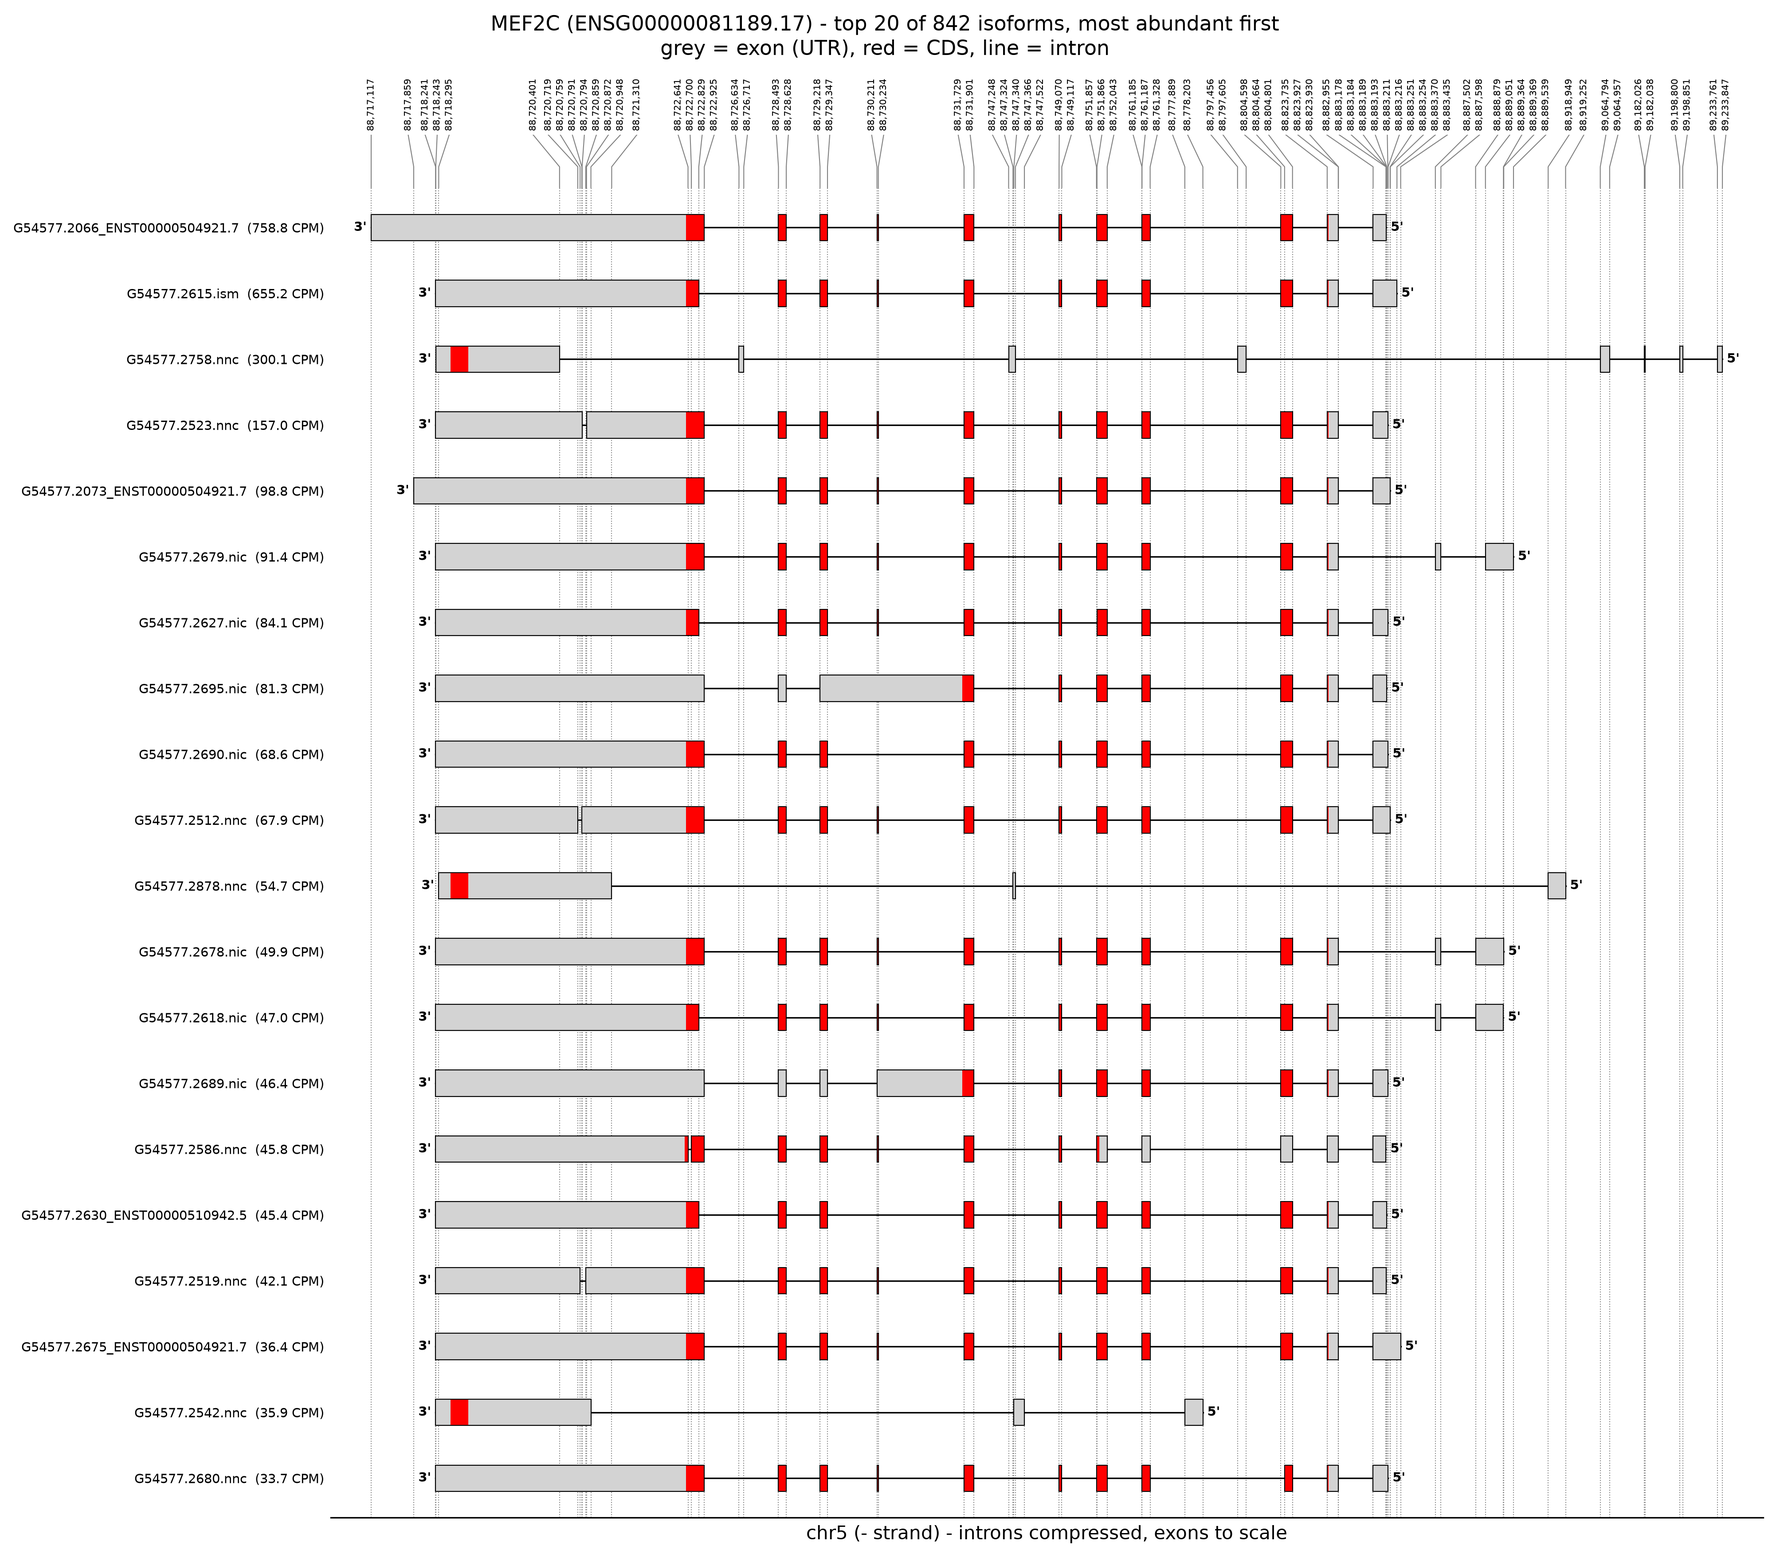
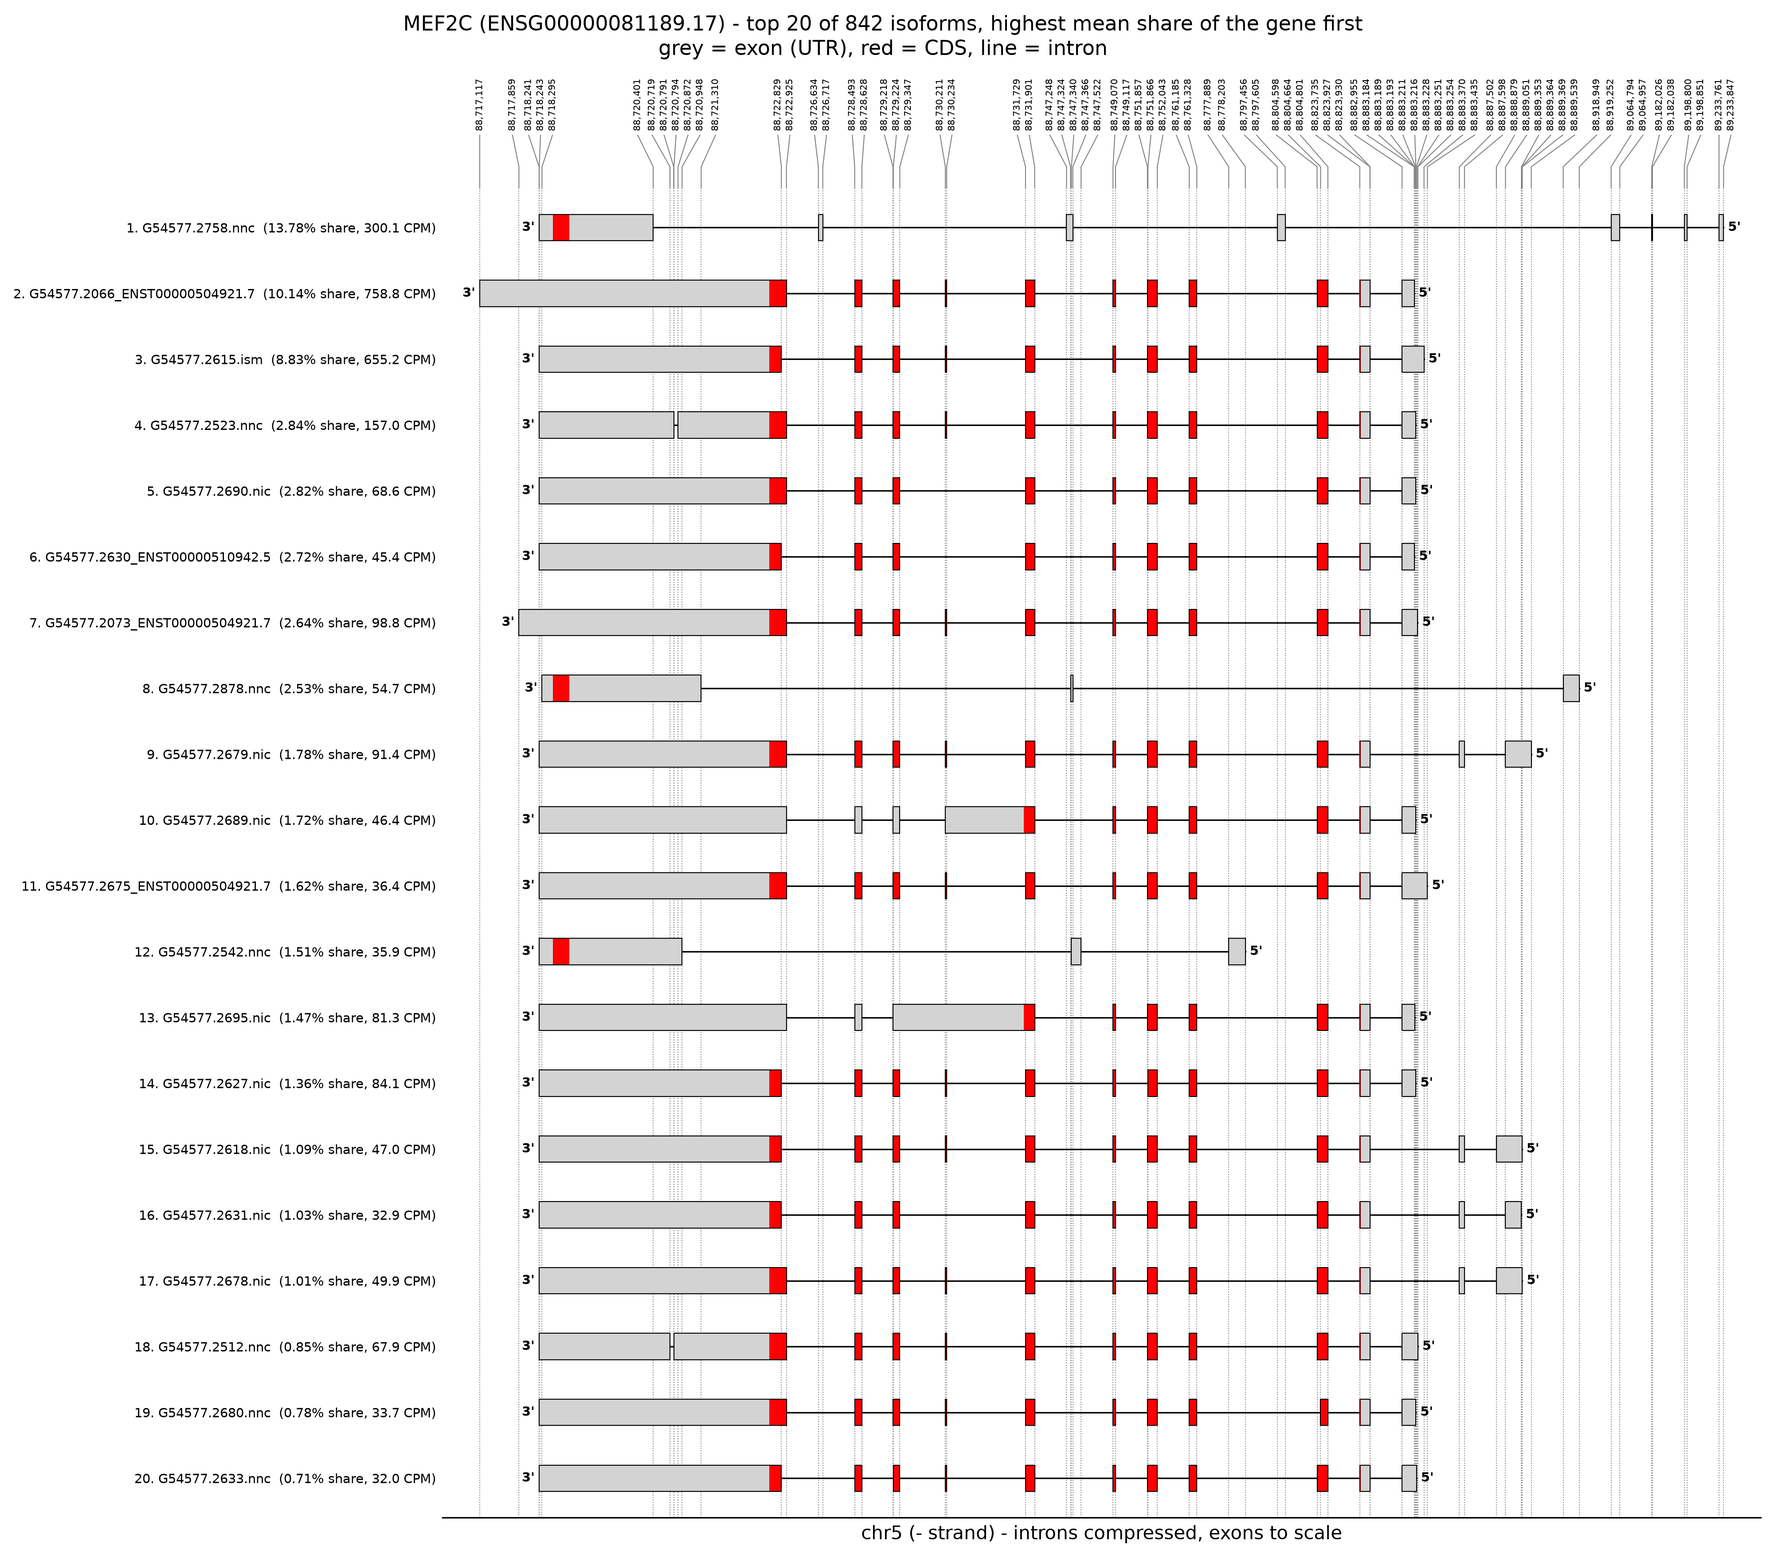
consistency in numbering isoforms

diff --git a/4_identifying_candidates/.py/checking_across_pairs.py b/4_identifying_candidates/.py/checking_across_pairs.py
@@ -1,0 +1,166 @@
+"""
+For the genes that are the asymmetric gene in several candidate pairs, how consistently is each of
+their isoforms significant across those pairs?
+
+For each of the top N_GENES asymmetric genes (most candidate pairs first, at least MIN_PAIRS pairs):
+    - take every candidate pair where it is the asymmetric gene
+    - for each of its isoforms, the percentage of those pairs where that isoform's share was
+      significant against the partner (silent) gene's total
+      (100% = significant in every pair, 0% = tested in every pair but never significant)
+
+Isoform numbers match the isoform visualisation (1_data_processing/.py/isoform_visualisation.py):
+all isoforms of the gene ranked by mean % share of the gene across the 45 adult samples (the same
+measure as the 1.5% share filter), 1 = highest share = top row of that figure. Because the ranking
+and the filter use the same measure, the tested isoforms are exactly isoforms 1 to N with no gaps.
+Blank means "not tested" (or the gene has fewer isoforms), not "never significant".
+
+Outputs (in 4_identifying_candidates/CSV):
+    isoform_consistency_<settings>.csv      - rows = asymmetric gene, columns = isoform number,
+                                              cells = % of the gene's candidate pairs significant
+    isoform_consistency_key_<settings>.csv  - one row per gene and tested isoform: its number, ID,
+                                              mean CPM, mean share and the counts behind each %
+
+Run with:
+    python 4_identifying_candidates/.py/checking_across_pairs.py
+"""
+
+from pathlib import Path
+import sys
+
+import pandas as pd
+
+ROOT_FOLDER = Path(__file__).resolve().parents[2]   # the Sapal-Speke-RP-2026 folder
+sys.path.insert(0, str(ROOT_FOLDER))                # so "from functions..." works from any folder
+
+from functions.data_loading.expression_data import (
+    load_matrix, mean_isoform_share, rank_isoforms_by_share, read_isoform_genes,
+)
+
+
+# --- Settings ---------------------------------------------------------------
+CANDIDATES_FILE = None
+# None selects the latest promising_candidate_pairs_*.csv from promising_candidates.py.
+N_GENES = 10
+# How many asymmetric genes to include, most candidate pairs first.
+MIN_PAIRS = 2
+# A gene must be the asymmetric gene in at least this many pairs to be included.
+
+MATRIX_PATH = ROOT_FOLDER / "Long_Read_Data" / "expressed_isoforms_matrix.tsv"
+GTF_PATH = ROOT_FOLDER / "Long_Read_Data" / "expressed_isoforms.gtf"
+CORRELATIONS_FOLDER = ROOT_FOLDER / "3b_isoform_gene_hypothesis_testing" / "CSV"
+CSV_FOLDER = ROOT_FOLDER / "4_identifying_candidates" / "CSV"
+
+
+def find_candidates_file():
+    """Return an explicitly configured candidates file or the latest one."""
+    if CANDIDATES_FILE is not None:
+        path = Path(CANDIDATES_FILE)
+        if not path.is_absolute():
+            path = ROOT_FOLDER / path
+        if not path.is_file():
+            raise FileNotFoundError(f"Configured candidates CSV does not exist: {path}")
+        return path
+
+    candidates = list(CSV_FOLDER.glob("promising_candidate_pairs_*.csv"))
+    if not candidates:
+        raise FileNotFoundError(
+            f"No candidate pairs found in {CSV_FOLDER}. Run promising_candidates.py first."
+        )
+    return max(candidates, key=lambda path: path.stat().st_mtime_ns)
+
+
+def isoform_numbers(genes):
+    """Isoform number for every isoform of the given genes, as in the isoform visualisation:
+    all of the gene's isoforms ranked by mean % share of the gene across the adult samples,
+    1 = highest share. Uses the same shared functions as the visualisation, so the numbers match.
+    Returns (number, mean CPM), both indexed by isoform ID."""
+    matrix = load_matrix(str(MATRIX_PATH))
+    matrix = matrix[[name for name in matrix.columns if "_Fetal_" not in name]]
+    mean_cpm = matrix.mean(axis=1)
+
+    isoform_gene = read_isoform_genes(str(GTF_PATH))   # in GTF order, like the visualisation
+    mean_share = mean_isoform_share(matrix, isoform_gene)
+    numbers = {}
+    for gene in genes:
+        isoforms = list(isoform_gene.index[isoform_gene == gene])
+        for number, isoform_id in enumerate(rank_isoforms_by_share(isoforms, mean_share), start=1):
+            numbers[isoform_id] = number
+    numbers = pd.Series(numbers, name="isoform_number")
+    return numbers, mean_cpm.reindex(numbers.index)
+
+
+def main():
+    candidates_path = find_candidates_file()
+    settings_tag = candidates_path.stem.removeprefix("promising_candidate_pairs_")
+    correlations_path = CORRELATIONS_FOLDER / f"isoform_gene_correlations_{settings_tag}.csv"
+    print(f"Reading candidates: {candidates_path}")
+    print(f"Reading isoform tests: {correlations_path}")
+    candidates = pd.read_csv(candidates_path)
+    results = pd.read_csv(correlations_path, low_memory=False)
+
+    # Top asymmetric genes by number of candidate pairs
+    pair_counts = candidates["asymmetric_gene"].value_counts()
+    pair_counts = pair_counts[pair_counts >= MIN_PAIRS]
+    pair_counts = pair_counts.sort_index().sort_values(ascending=False, kind="stable")   # ties by name
+    top_genes = pair_counts.index[:N_GENES]
+    print(f"Asymmetric genes in at least {MIN_PAIRS} pairs: {len(pair_counts):,}; using the top {len(top_genes)}")
+
+    # Every tested isoform share, from either side, as: pair, gene the isoform belongs to, isoform, significant
+    tested = results.loc[results["spearman_rho"].notna()]
+    sides = []
+    for side in ["a", "b"]:
+        rows = tested.loc[tested[f"component_{side}_type"] == "isoform_percent_share"]
+        sides.append(pd.DataFrame({
+            "pair_id": rows["pair_id"].values,
+            "gene": rows[f"gene_{side}"].values,
+            "isoform_id": rows[f"isoform_{side}_id"].astype(str).values,
+            "mean_share_pct": rows[f"mean_share_{side}_pct"].values,
+            "significant": rows["mht_significant"].astype(bool).values,
+        }))
+    isoform_tests = pd.concat(sides, ignore_index=True)
+
+    # Keep only the asymmetric side of each candidate pair, for the top genes
+    asymmetric_sides = candidates.loc[candidates["asymmetric_gene"].isin(top_genes), ["pair_id", "asymmetric_gene"]]
+    asymmetric_sides = asymmetric_sides.rename(columns={"asymmetric_gene": "gene"})
+    isoform_tests = isoform_tests.merge(asymmetric_sides, on=["pair_id", "gene"])
+
+    # Per gene and isoform: in how many of the gene's candidate pairs it was tested / significant
+    key = isoform_tests.groupby(["gene", "isoform_id"]).agg(
+        mean_share_pct=("mean_share_pct", "first"),
+        n_pairs_tested=("significant", "size"),
+        n_pairs_significant=("significant", "sum"),
+    ).reset_index()
+    key["percent_significant"] = 100 * key["n_pairs_significant"] / key["n_pairs_tested"]
+
+    numbers, mean_cpm = isoform_numbers(top_genes)
+    key["isoform_number"] = key["isoform_id"].map(numbers).astype(int)
+    key["mean_cpm"] = key["isoform_id"].map(mean_cpm)
+    key["n_candidate_pairs"] = key["gene"].map(pair_counts)
+    key["gene"] = pd.Categorical(key["gene"], categories=top_genes, ordered=True)
+    key = key.sort_values(["gene", "isoform_number"])[[
+        "gene", "n_candidate_pairs", "isoform_number", "isoform_id", "mean_cpm", "mean_share_pct",
+        "n_pairs_tested", "n_pairs_significant", "percent_significant",
+    ]]
+
+    # Table: rows = gene, columns = isoform number, cells = % significant (blank = not tested)
+    table = key.pivot(index="gene", columns="isoform_number", values="percent_significant").round(1)
+    table = table.reindex(columns=range(1, int(key["isoform_number"].max()) + 1))
+    table.columns = [str(number) for number in table.columns]
+    table.insert(0, "n_candidate_pairs", pair_counts.loc[top_genes].values)
+    table.index.name = "asymmetric_gene"
+
+    CSV_FOLDER.mkdir(parents=True, exist_ok=True)
+    table_path = CSV_FOLDER / f"isoform_consistency_{settings_tag}.csv"
+    key_path = CSV_FOLDER / f"isoform_consistency_key_{settings_tag}.csv"
+    table.to_csv(table_path)
+    key.to_csv(key_path, index=False)
+    print(f"Saved table: {table_path}")
+    print(f"Saved key: {key_path}")
+
+    with pd.option_context("display.width", 250, "display.max_columns", 40):
+        print("\n% of each gene's candidate pairs in which the isoform is significant (blank = not tested):")
+        print(table.fillna("").to_string())
+
+
+if __name__ == "__main__":
+    main()

diff --git a/1_data_processing/.py/isoform_visualisation.py b/1_data_processing/.py/isoform_visualisation.py
@@ -6,7 +6,10 @@ Isoform structure viewer: draw every isoform of a gene, one row per isoform, to 
   - a coordinate ruler above the isoforms labels every distinct exon start / end once, with a
     dotted guide line down through every row (exon edges on the same line = shared splice site)
   - each isoform has 5' and 3' written at its ends (which side is 5' depends on the strand)
-  - isoforms are ordered by mean CPM (most abundant at the top), with the CPM in the row label
+  - isoforms are ordered by mean % share of the gene (highest at the top), and numbered 1, 2, 3, ...
+    Share = isoform CPM / gene total CPM * 100 in each adult sample, averaged across samples - the
+    same measure as the 1.5% share filter, so this numbering matches the tables in
+    4_identifying_candidates (isoform_consistency_*.csv). Each row label shows the mean share and CPM.
 
 Structure comes from Long_Read_Data/expressed_isoforms.gtf ("exon" and "CDS" rows),
 abundance from Long_Read_Data/expressed_isoforms_matrix.tsv (same 61,117 transcript IDs),
@@ -38,6 +41,7 @@ import pandas as pd
 ROOT_FOLDER = Path(__file__).resolve().parents[2]   # the Sapal-Speke-RP-2026 folder
 sys.path.insert(0, str(ROOT_FOLDER))                # so "from functions..." works from any folder
 
+from functions.data_loading.expression_data import mean_isoform_share
 from functions.graphs.isoform_structure import find_isoforms, plot_isoform_structures
 
 
@@ -83,16 +87,19 @@ def read_gtf(gtf_path=GTF_PATH):
     return dict(transcripts)
 
 
-def read_mean_cpm(matrix_path=MATRIX_PATH):
-    """Mean CPM of each isoform across the 45 adult samples, as a pandas Series indexed by transcript_id.
-    Only used to order the isoforms and label them, so if the matrix is missing return None."""
+def read_abundance(transcripts, matrix_path=MATRIX_PATH):
+    """Mean CPM and mean % share of each isoform across the 45 adult samples, as two pandas Series
+    indexed by transcript_id. Only used to order and label the isoforms, so if the matrix is
+    missing return (None, None)."""
     if not os.path.exists(matrix_path):
         print(f"Note: {matrix_path} not found - isoforms will be ordered by position, not abundance")
-        return None
+        return None, None
     matrix = pd.read_csv(matrix_path, sep="\t", index_col=0)
     # Drop the 4 fetal samples straight after loading, as in gene_spearman.py
     matrix = matrix[[name for name in matrix.columns if "_Fetal_" not in name]]
-    return matrix.mean(axis=1)
+    # Gene = gene name from the GTF transcript lines, as in the rest of the pipeline
+    isoform_gene = pd.Series({t: info.get("gene_name", "") for t, info in transcripts.items()})
+    return matrix.mean(axis=1), mean_isoform_share(matrix, isoform_gene)
 
 
 def main():
@@ -111,12 +118,13 @@ def main():
     # Read the files once, so plotting several genes doesn't re-read the 110 MB GTF
     print("Reading GTF and expression matrix...")
     transcripts = read_gtf()
-    mean_cpm = read_mean_cpm()
+    mean_cpm, mean_share = read_abundance(transcripts)
 
     if genes:
         for gene in genes:
             plot_isoform_structures(
-                gene, transcripts, mean_cpm, FIGURES_FOLDER, max_isoforms, SAVE_FIGURE
+                gene, transcripts, mean_cpm, FIGURES_FOLDER, max_isoforms, SAVE_FIGURE,
+                mean_share=mean_share
             )
         return
 
@@ -125,7 +133,8 @@ def main():
         if not gene:
             break
         plot_isoform_structures(
-            gene, transcripts, mean_cpm, FIGURES_FOLDER, max_isoforms, SAVE_FIGURE
+            gene, transcripts, mean_cpm, FIGURES_FOLDER, max_isoforms, SAVE_FIGURE,
+            mean_share=mean_share
         )
 
 

diff --git a/functions/graphs/isoform_structure.py b/functions/graphs/isoform_structure.py
@@ -8,6 +8,8 @@ import matplotlib.pyplot as plt
 from matplotlib.patches import Rectangle
 from matplotlib.textpath import TextPath
 
+from functions.data_loading.expression_data import rank_isoforms_by_share
+
 
 # --- Settings (change these, not the code below) ---------------------------
 COMPRESS_INTRONS = True  # True = shrink long introns so the exons are wide enough to see.
@@ -175,15 +177,20 @@ def place_axes(fig, ax, ruler_ax, title, label_inches, left_inches):
     title.set_y(1 - 0.1 / height_inches)
 
 
-def plot_isoform_structures(gene, transcripts, mean_cpm, figures_folder, max_isoforms, save, show=True):
-    """Draw the isoform structures of one gene. Returns the matplotlib figure (None if not found)."""
+def plot_isoform_structures(gene, transcripts, mean_cpm, figures_folder, max_isoforms, save, show=True,
+                            mean_share=None):
+    """Draw the isoform structures of one gene. Returns the matplotlib figure (None if not found).
+    With mean_share, isoforms are ordered and numbered by mean % share of the gene (1 = highest);
+    otherwise by mean CPM; with neither, by start position."""
     isoforms = find_isoforms(gene, transcripts)
     if not isoforms:
         print(f"No isoforms found for '{gene}' - check the gene name / ID")
         return None
 
-    # Order: most abundant first (or by start position if there is no matrix), then keep the top N
-    if mean_cpm is not None:
+    # Order: highest mean share first (or mean CPM, or start position), then keep the top N
+    if mean_share is not None:
+        isoforms = rank_isoforms_by_share(isoforms, mean_share)
+    elif mean_cpm is not None:
         isoforms.sort(key=lambda t: -mean_cpm.get(t, 0))
     else:
         isoforms.sort(key=lambda t: transcripts[t]["exons"][0][0])
@@ -236,11 +243,13 @@ def plot_isoform_structures(gene, transcripts, mean_cpm, figures_folder, max_iso
         ax.text(left, row, left_end + " ", ha="right", va="center", fontsize=7, fontweight="bold")
         ax.text(right, row, " " + right_end, ha="left", va="center", fontsize=7, fontweight="bold")
 
-    # Row labels: transcript ID, mean CPM, and "non-coding" if there is no CDS
+    # Row labels: isoform number, transcript ID, mean share and CPM, and "non-coding" if there is no CDS
     labels = []
-    for transcript_id in isoforms:
-        label = transcript_id
-        if mean_cpm is not None:
+    for number, transcript_id in enumerate(isoforms, start=1):
+        label = f"{number}. {transcript_id}"
+        if mean_share is not None:
+            label += f"  ({mean_share.get(transcript_id, 0):.2f}% share, {mean_cpm.get(transcript_id, 0):.1f} CPM)"
+        elif mean_cpm is not None:
             label += f"  ({mean_cpm.get(transcript_id, 0):.1f} CPM)"
         if not transcripts[transcript_id]["cds"]:
             label += "  non-coding"
@@ -273,7 +282,9 @@ def plot_isoform_structures(gene, transcripts, mean_cpm, figures_folder, max_iso
         ax.axvline(x, color="grey", linestyle=":", linewidth=0.5, zorder=0)
 
     shown = f"top {len(isoforms)} of {n_total}" if len(isoforms) < n_total else f"all {n_total}"
-    title = fig.suptitle(f"{gene_name} ({first['gene_id']}) - {shown} isoforms, most abundant first\n"
+    order = ("highest mean share of the gene first" if mean_share is not None
+             else "most abundant first" if mean_cpm is not None else "by start position")
+    title = fig.suptitle(f"{gene_name} ({first['gene_id']}) - {shown} isoforms, {order}\n"
                          f"grey = exon (UTR), red = CDS, line = intron", va="top", fontsize=11)
 
     # Final layout: draw the ruler labels to find out how tall they are, set the figure height

diff --git a/functions/data_loading/expression_data.py b/functions/data_loading/expression_data.py
@@ -28,6 +28,27 @@ def read_isoform_genes(gtf_path):
     return pd.Series(gene_names, index=isoforms)
 
 
+def mean_isoform_share(matrix, isoform_gene):
+    """Mean % share of each isoform within its own gene, across the samples in `matrix`.
+
+    Per sample: isoform CPM / gene total CPM * 100, where the gene total is the sum of ALL the
+    gene's isoforms (gene = gene name in `isoform_gene`). Samples where the gene total is 0 are
+    skipped (a gene that is 0 in every sample gives 0). This is the same mean share used by the
+    1.5% filter in isoform_gene_correlation.py, and it is the measure isoforms are numbered by
+    (1 = highest mean share)."""
+    isoform_gene = isoform_gene.reindex(matrix.index)
+    gene_total = matrix.groupby(isoform_gene, sort=False).sum()
+    own_total = gene_total.loc[isoform_gene].set_axis(matrix.index)
+    shares = matrix.div(own_total.where(own_total > 0)) * 100
+    return shares.mean(axis=1).fillna(0)
+
+
+def rank_isoforms_by_share(isoforms, mean_share):
+    """Order isoform IDs by mean share, highest first. Ties (e.g. isoforms with share 0) keep the
+    order they were given in, so the numbering is the same wherever this is used."""
+    return sorted(isoforms, key=lambda isoform_id: -mean_share.get(isoform_id, 0))
+
+
 def region_of(sample_name):
     """Sample names look like "Caudate_MDD_Adult_R17353" - the region is the text before the first "_"."""
     return sample_name.split("_")[0]
